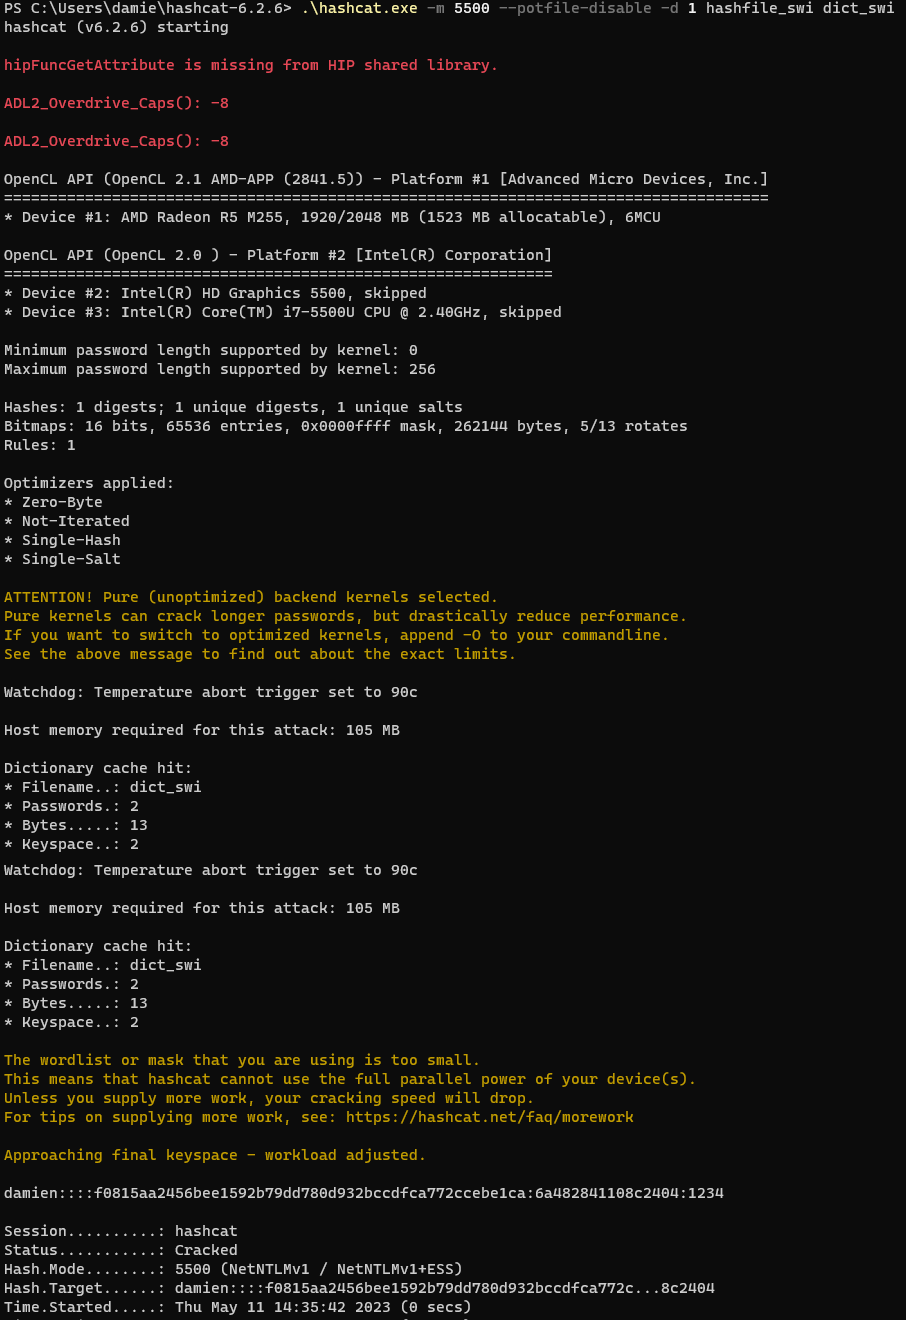
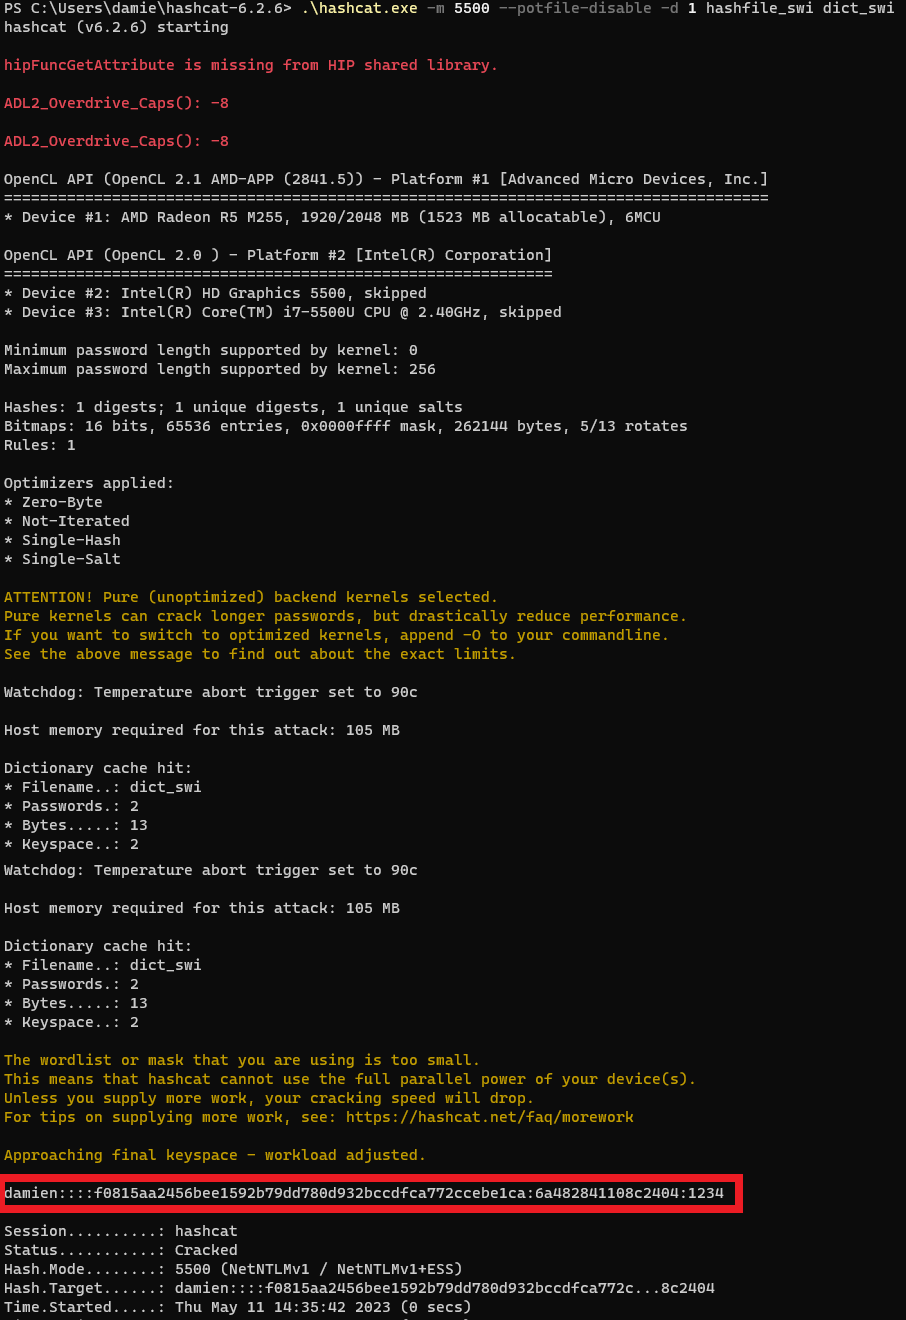
explications partie 2

Changed region(s): [[0.0, 0.8697, 0.8344, 0.9318]]

diff --git a/README.md b/README.md
@@ -119,6 +119,10 @@ Pour implémenter l’attaque :
 
 ### Manips
 
+Nous créons le réseau malveillant. Ensuite nous tentons de nous y connecter avec le nom d'utilisateur `damien` et le mot de passe `1234`.
+
+Voilà ce que ça donne dans le terminal :
+
 ![img.png](img.png)
 
 ```
@@ -129,7 +133,18 @@ username:      damien
          hashcat NETNTLM:       damien::::f0815aa2456bee1592b79dd780d932bccdfca772ccebe1ca:6a482841108c2404
 ```
 
+Ensuite nous utilisons hashcat pour attaquer le hash capturé du mot de passe. Voilà quelques explications sur les paramètres utilisés :
+
+- `-m 5500` : type de hash NetNTLMv1
+- `--potfile-disable` : ne pas utiliser de fichier de stockage des mots de passe déjà trouvés (permet d'avoir le même résultat si on exécute plusieurs fois la commande)
+- `-d 1` : utiliser mon GPU pour accélérer le processus
+- `hashfile_swi` : fichier texte contenant le hash à craquer
+- `dict_swi` : fichier texte contenant les mots de passe à tester (qui contient notamment `1234`)
+
+
 ![img_1.png](img_1.png)
+
+La ligne encadrée en rouge indique que hashcat a trouvé le mot de passe `1234` pour le hash capturé.
 
 ### Répondez aux questions suivantes :
 
@@ -137,9 +152,9 @@ username:      damien
 > 
 > **_Réponse :_**
 > 
-> Indiquer l'interface qu'on utilise pour créer l'AP : `interface=wlan0`
-> Indiquer le SSID du faux réseau : `ssid=HEIG-FAKE`
-> On peut encore configurer d'autres choses comme le canal utilisé, mais en l'occurrence les valeurs par défaut sont bonnes.
+> - Indiquer l'interface qu'on utilise pour créer l'AP : `interface=wlan0`
+> - Indiquer le SSID du faux réseau : `ssid=HEIG-FAKE`
+> - On peut encore configurer d'autres choses comme le canal utilisé, mais en l'occurrence les valeurs par défaut sont bonnes.
 
 ---
 
